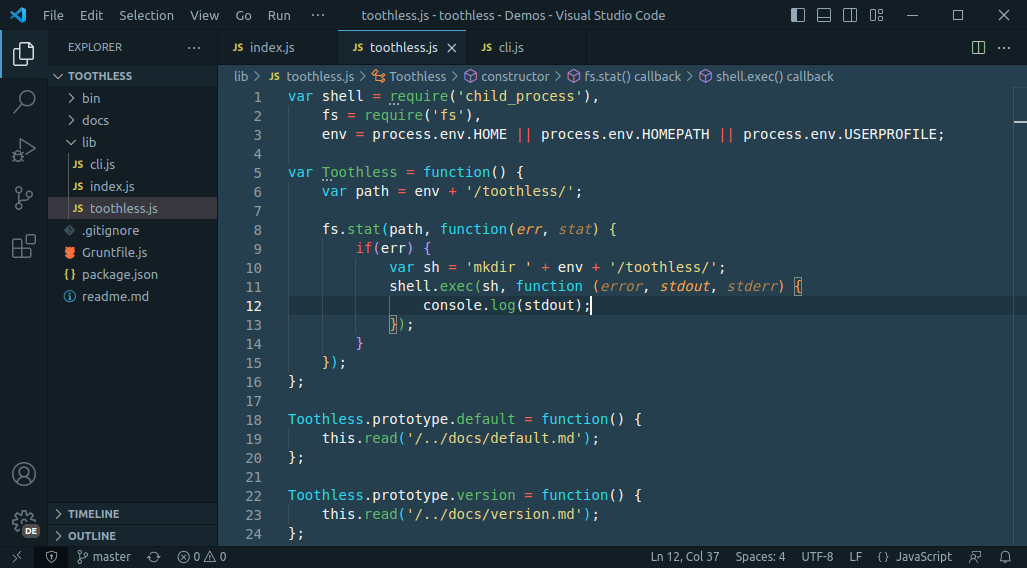
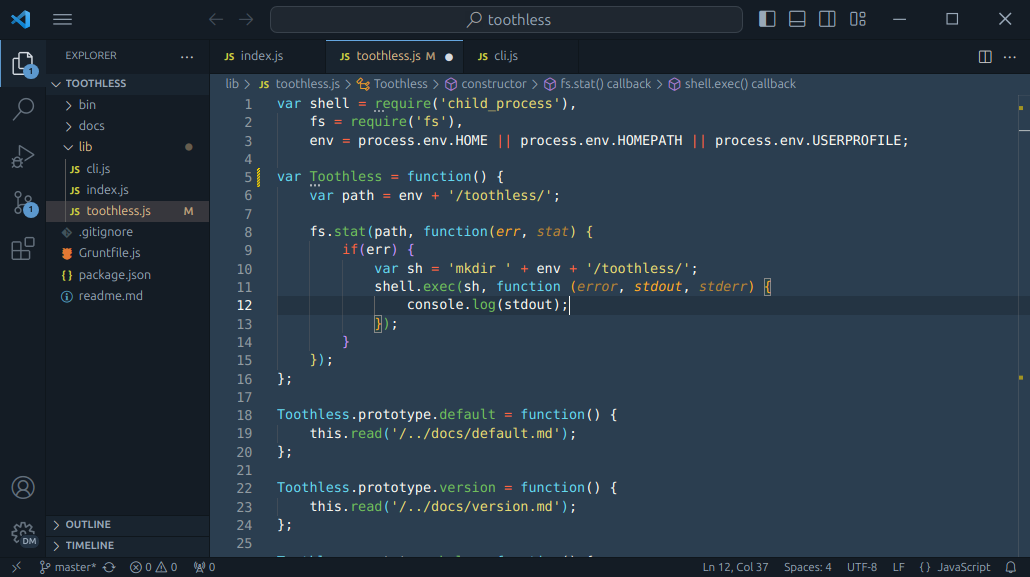
Update the preview image

diff --git a/README.md b/README.md
@@ -2,7 +2,7 @@
 
 A darkish syntax theme for the 80% use case. VS Code port of [Raphael Amorim's Lucario theme](https://github.com/raphamorim/lucario).
 
-![A VS Code window showing how pretty Lucario Theme looks.](./assets/preview.png)
+![A VS Code workspace with the Lucario Theme.](./assets/preview.png)
 
 A few reasons to use this:
 

diff --git a/CHANGELOG.md b/CHANGELOG.md
@@ -13,6 +13,7 @@
 ### Other
 
 - List recommended extensions (.vscode/extensions.json).
+- Update the preview image.
 
 ## 2.3.0 - 2024-01-06
 
